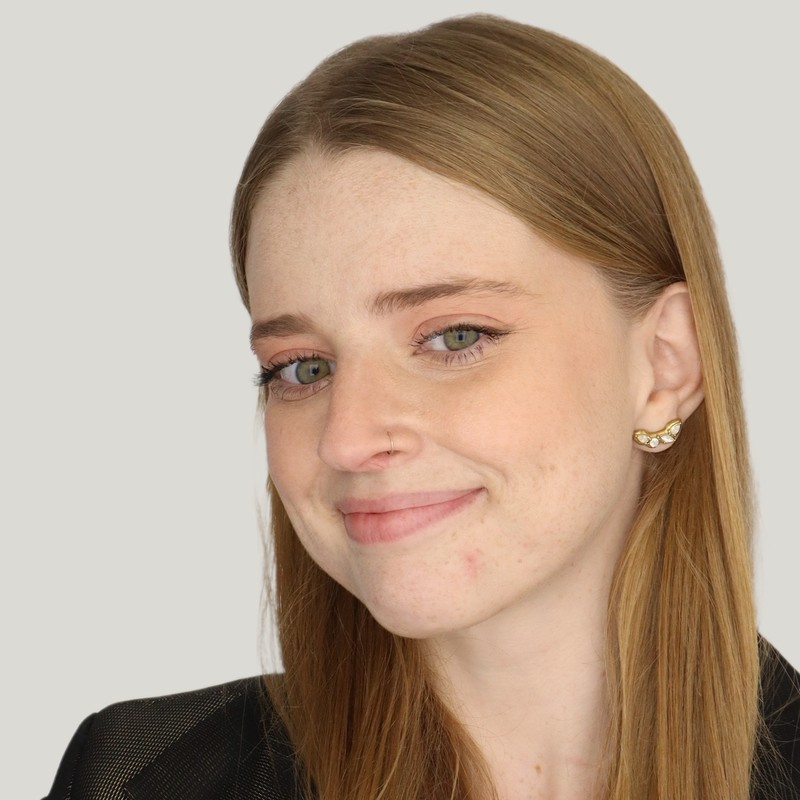
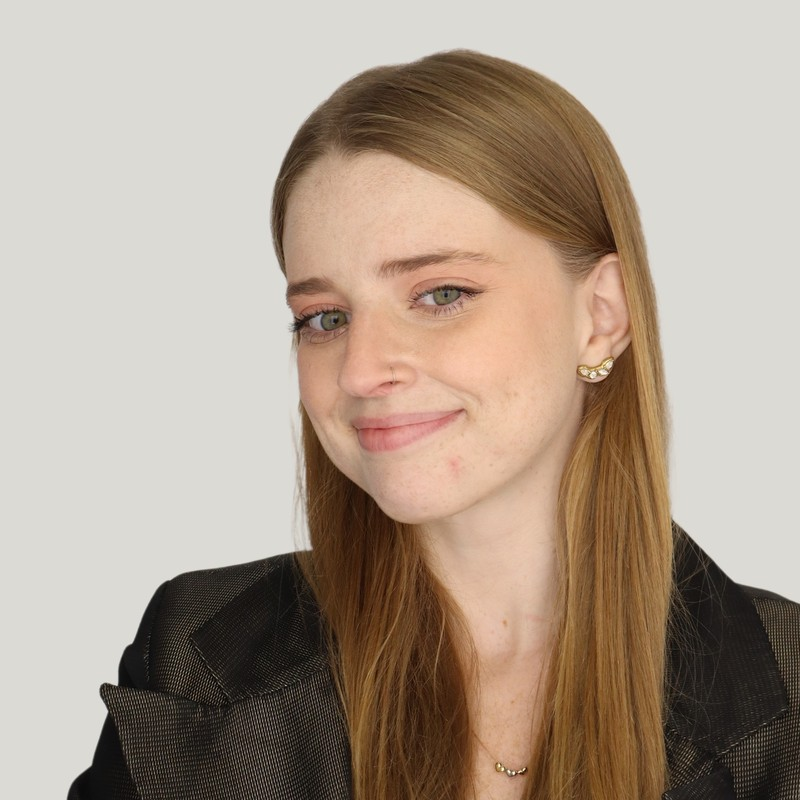
Founders: looser crops with headroom, faces still matched

diff --git a/index.html b/index.html
@@ -151,9 +151,9 @@
         <h2>Founders<small>Who we are</small></h2>
         <div class="reveal">
           <div class="cards">
-            <div class="card person"><div class="photo"><img src="assets/team/brianna.jpg?v=4" alt="Brianna Gabaldon" width="800" height="800" loading="lazy"></div><div class="who"><h3>Brianna Gabaldon</h3><a class="li" href="https://www.linkedin.com/in/brianna-gabaldon-328011149/" rel="noopener" aria-label="Brianna Gabaldon on LinkedIn">in</a></div><span class="role">CEO / Co-founder</span><p class="fine">Product manager on an operating system shipping to 1.4+ billion devices. B.S. Computer Science; M.S. Global Security, Conflict and Cybercrime (NYU), thesis on human factors in cyber risk. Ethical Tech CoLab advisor.</p></div>
-            <div class="card person"><div class="photo"><img src="assets/team/daniel.jpg?v=4" alt="Daniel Vitenko" width="800" height="800" loading="lazy"></div><div class="who"><h3>Daniel Vitenko</h3><a class="li" href="https://www.linkedin.com/in/daniel-vitenko/" rel="noopener" aria-label="Daniel Vitenko on LinkedIn">in</a></div><span class="role">CTO / Co-founder</span><p class="fine">B.S. Computational Mathematics; M.S. Quantum Science. Graduate research in large-scale RQC behavior and Fermi gas simulations.</p></div>
-            <div class="card person"><div class="photo"><img src="assets/team/carolina.jpg?v=5" alt="Carolina Pernambuco Moron" width="800" height="800" loading="lazy"></div><div class="who"><h3>Carolina Pernambuco Moron</h3><a class="li" href="https://www.linkedin.com/in/carolina-pernambuco-moron/" rel="noopener" aria-label="Carolina Pernambuco Moron on LinkedIn">in</a></div><span class="role">CPO / Co-founder</span><p class="fine">B.S. International Business; M.S. Global Economy with a specialization in Data Analytics; M.S. Global Security, Conflict and Cybercrime (NYU).</p></div>
+            <div class="card person"><div class="photo"><img src="assets/team/brianna.jpg?v=6" alt="Brianna Gabaldon" width="800" height="800" loading="lazy"></div><div class="who"><h3>Brianna Gabaldon</h3><a class="li" href="https://www.linkedin.com/in/brianna-gabaldon-328011149/" rel="noopener" aria-label="Brianna Gabaldon on LinkedIn">in</a></div><span class="role">CEO / Co-founder</span><p class="fine">Product manager on an operating system shipping to 1.4+ billion devices. B.S. Computer Science; M.S. Global Security, Conflict and Cybercrime (NYU), thesis on human factors in cyber risk. Ethical Tech CoLab advisor.</p></div>
+            <div class="card person"><div class="photo"><img src="assets/team/daniel.jpg?v=6" alt="Daniel Vitenko" width="800" height="800" loading="lazy"></div><div class="who"><h3>Daniel Vitenko</h3><a class="li" href="https://www.linkedin.com/in/daniel-vitenko/" rel="noopener" aria-label="Daniel Vitenko on LinkedIn">in</a></div><span class="role">CTO / Co-founder</span><p class="fine">B.S. Computational Mathematics; M.S. Quantum Science. Graduate research in large-scale RQC behavior and Fermi gas simulations.</p></div>
+            <div class="card person"><div class="photo"><img src="assets/team/carolina.jpg?v=6" alt="Carolina Pernambuco Moron" width="800" height="800" loading="lazy"></div><div class="who"><h3>Carolina Pernambuco Moron</h3><a class="li" href="https://www.linkedin.com/in/carolina-pernambuco-moron/" rel="noopener" aria-label="Carolina Pernambuco Moron on LinkedIn">in</a></div><span class="role">CPO / Co-founder</span><p class="fine">B.S. International Business; M.S. Global Economy with a specialization in Data Analytics; M.S. Global Security, Conflict and Cybercrime (NYU).</p></div>
           </div>
           <p class="fine" style="margin-top:20px">This work builds on <em>The Human Architecture of Cyber Risk: How Micro-Businesses Operate Beyond Conventional Frameworks</em>, M.S. thesis, NYU Center for Global Affairs, April 2026.</p>
         </div>
